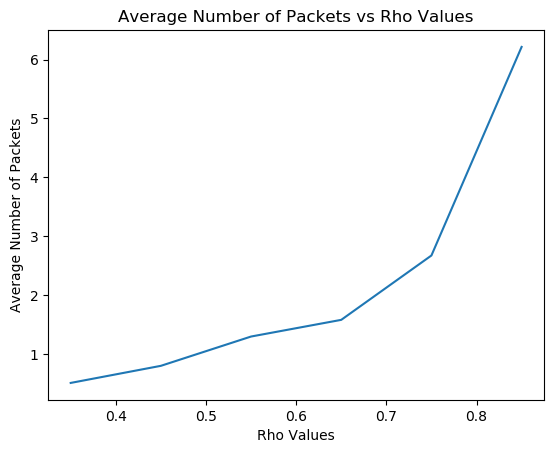
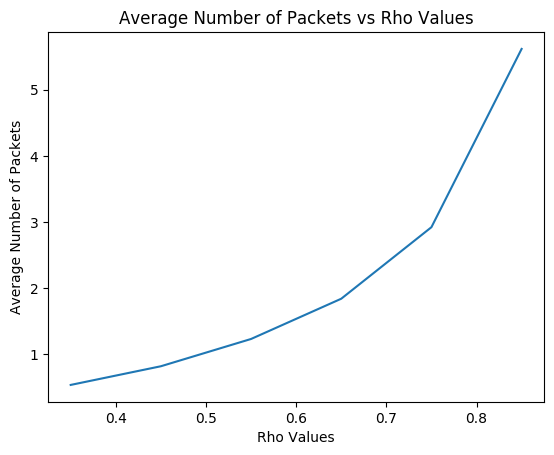
ran experiments for duration T=100

diff --git a/main.py b/main.py
@@ -20,7 +20,7 @@ def question_3 ():
     p_idle = []
     L = 2000
     C = 1000000
-    duration = 1000
+    duration = 100
     for rho in rho_values:
         print(f"Running Simulation at Rho: {rho}")
         sim = Simulator.Simulator(L, duration, C, rho)
@@ -35,7 +35,7 @@ def question_3 ():
     plt.xlabel('Rho Values')
     plt.ylabel('Average Number of Packets')
     # plt.show()
-    plt.savefig('Question3-1.png', bbox_inches='tight')
+    plt.savefig('Question3-1-Dur-100.png', bbox_inches='tight')
     plt.close()
 
     # Graph 2
@@ -44,7 +44,7 @@ def question_3 ():
     plt.ylabel('Proportion of Time Idle')
     plt.plot(rho_values, p_idle)
     # plt.show()
-    plt.savefig('Question3-2.png', bbox_inches='tight')
+    plt.savefig('Question3-2-Dur-100.png', bbox_inches='tight')
     plt.close()
 
 
@@ -53,7 +53,7 @@ def question_4 ():
     rho_value = 1.2
     L = 2000
     C = 1000000
-    duration = 1000
+    duration = 100
     print(f"Running Simulation at Rho: {rho_value}")
     sim = Simulator.Simulator(L, duration, C, rho_value)
     print(f"Average number of packets: {sim.En}")
@@ -70,7 +70,7 @@ def question_6 ():
     k_values = [10, 25, 50]
     L = 2000
     C = 1000000
-    duration = 1000
+    duration = 100
 
     for k in k_values:
         avg_packet_num_at_k = []
@@ -95,7 +95,7 @@ def question_6 ():
         plt.plot(rho_values, i)
     plt.legend(['k = 10', 'k = 25', 'k = 50'], loc = 'upper left')
     # plt.show()
-    plt.savefig('Question6-1.png', bbox_inches='tight')
+    plt.savefig('Question6-1-dur-100.png', bbox_inches='tight')
     plt.close()
     
     # Graph 2
@@ -106,7 +106,7 @@ def question_6 ():
         plt.plot(rho_values, i)
     plt.legend(['k = 10', 'k = 25', 'k = 50'], loc = 'upper left')
     # plt.show()
-    plt.savefig('Question6-2.png', bbox_inches='tight')
+    plt.savefig('Question6-2-dur-100.png', bbox_inches='tight')
     plt.close()
 
 def main ():
